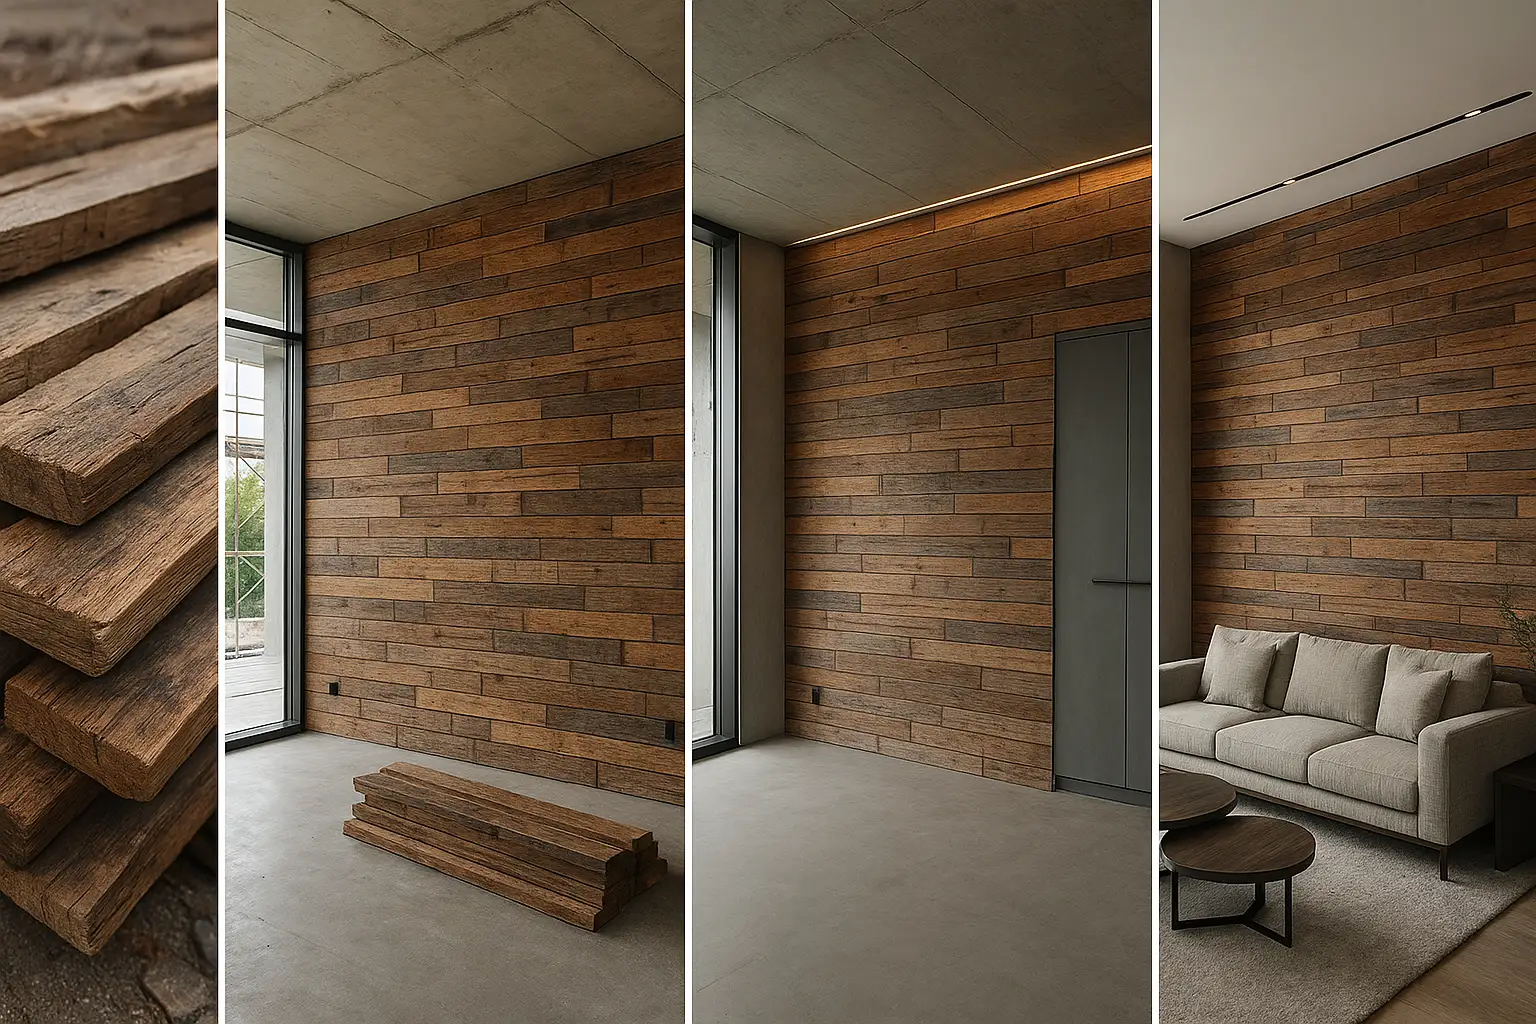
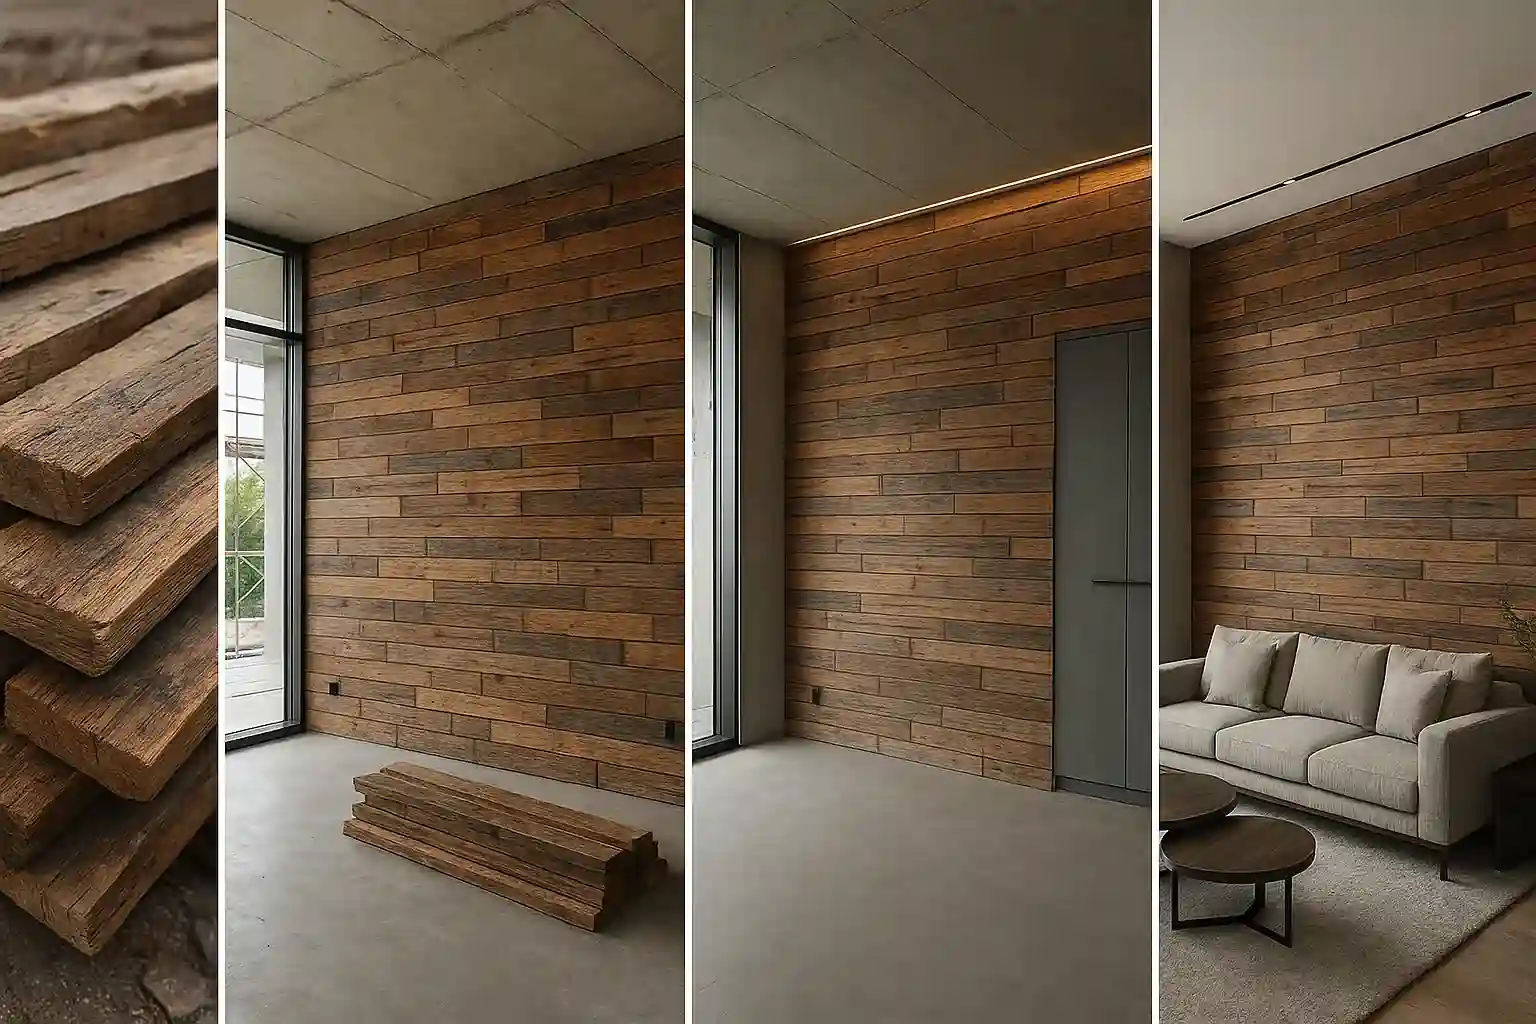
Compactação de imagens

diff --git a/index.html b/index.html
@@ -30,7 +30,7 @@
 <div class="container">
 <div class="logo">
 <img src="assets/images/logo-minimal.webp" alt="Emblema Conexão Terra Bambu" class="logo-emblem">
-<img src="assets/images/logo-texto.png" alt="Conexão Terra Bambu" class="logo-text">
+<img src="assets/images/logo-texto.webp" alt="Conexão Terra Bambu" class="logo-text">
 </div>
 <nav class="nav">
 <a href="#sobre">Sobre</a>
